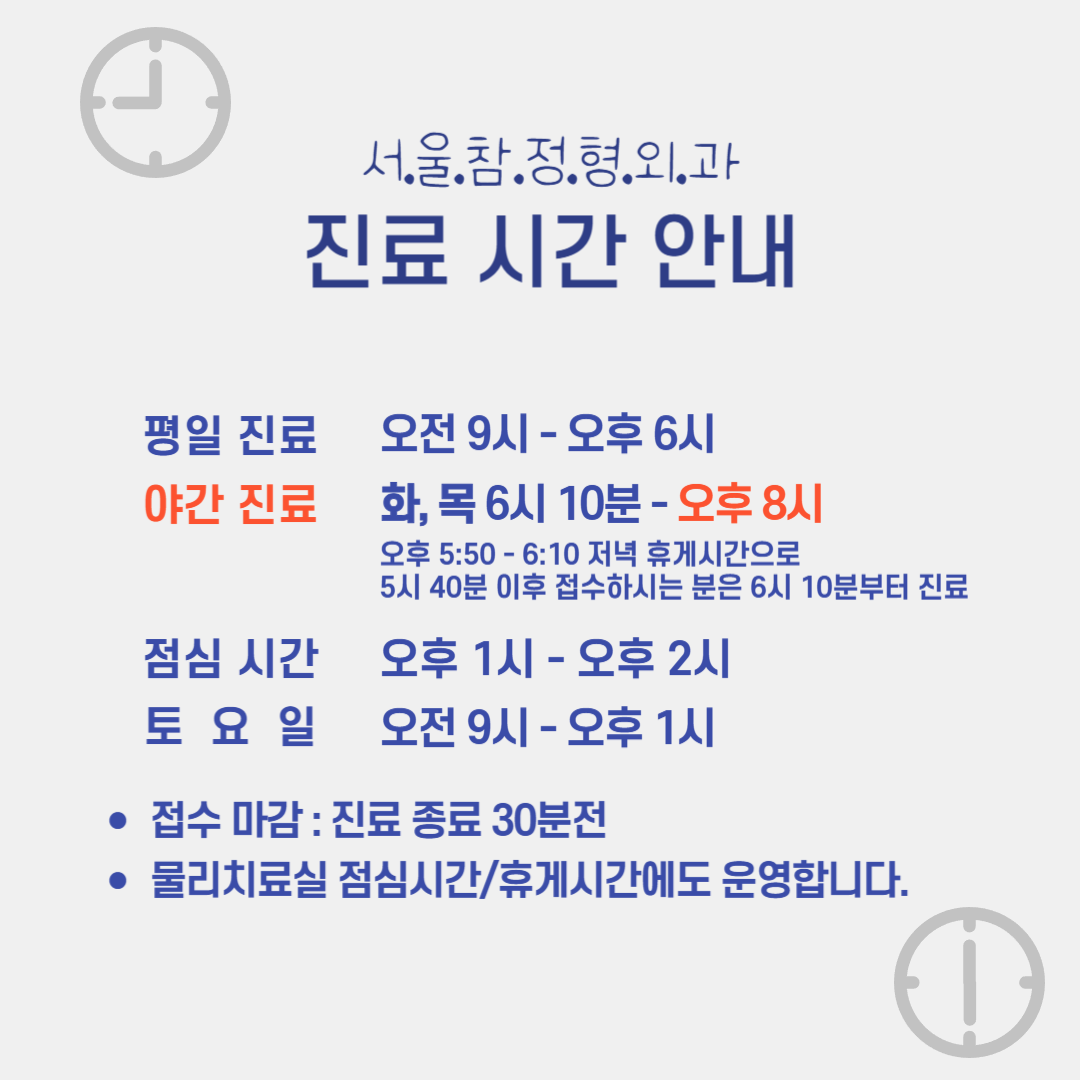
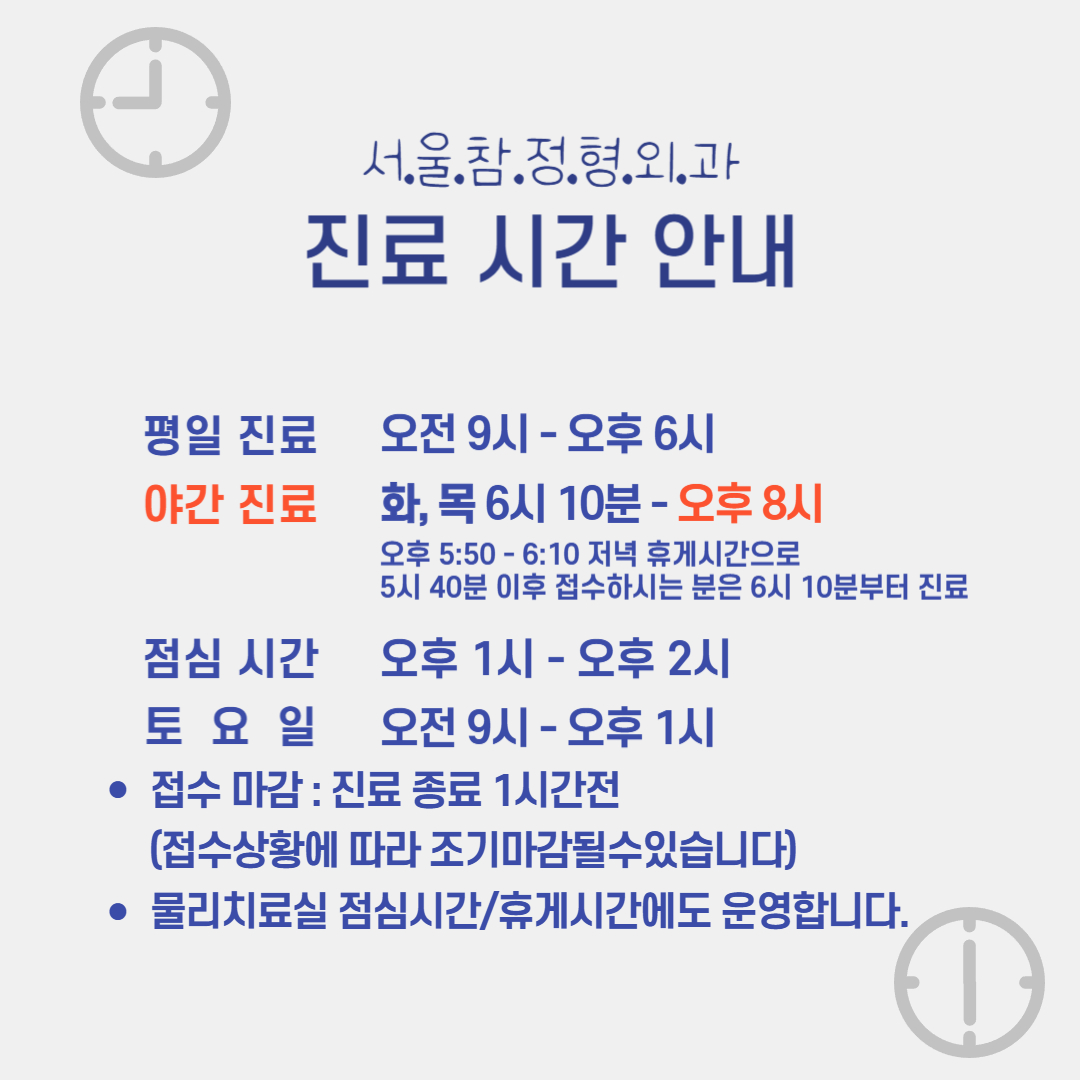
비급여 update

Changed region(s): [[0.0917, 0.7028, 0.8556, 0.8861]]

diff --git a/about/price.html b/about/price.html
@@ -10,7 +10,7 @@ title: 서울참정형외과_비급여안내
 <div style="height:20px;"></div>
 
     <figure>
-      <img src="{{ site.baseurl }}/img/price/bgy250601.jpg" alt="비급여수가표"   class="img-100" >
+      <img src="{{ site.baseurl }}/img/price/bgy260512.jpg" alt="비급여수가표"   class="img-100" >
     </figure>
 
 <div style="height:50px;"></div>